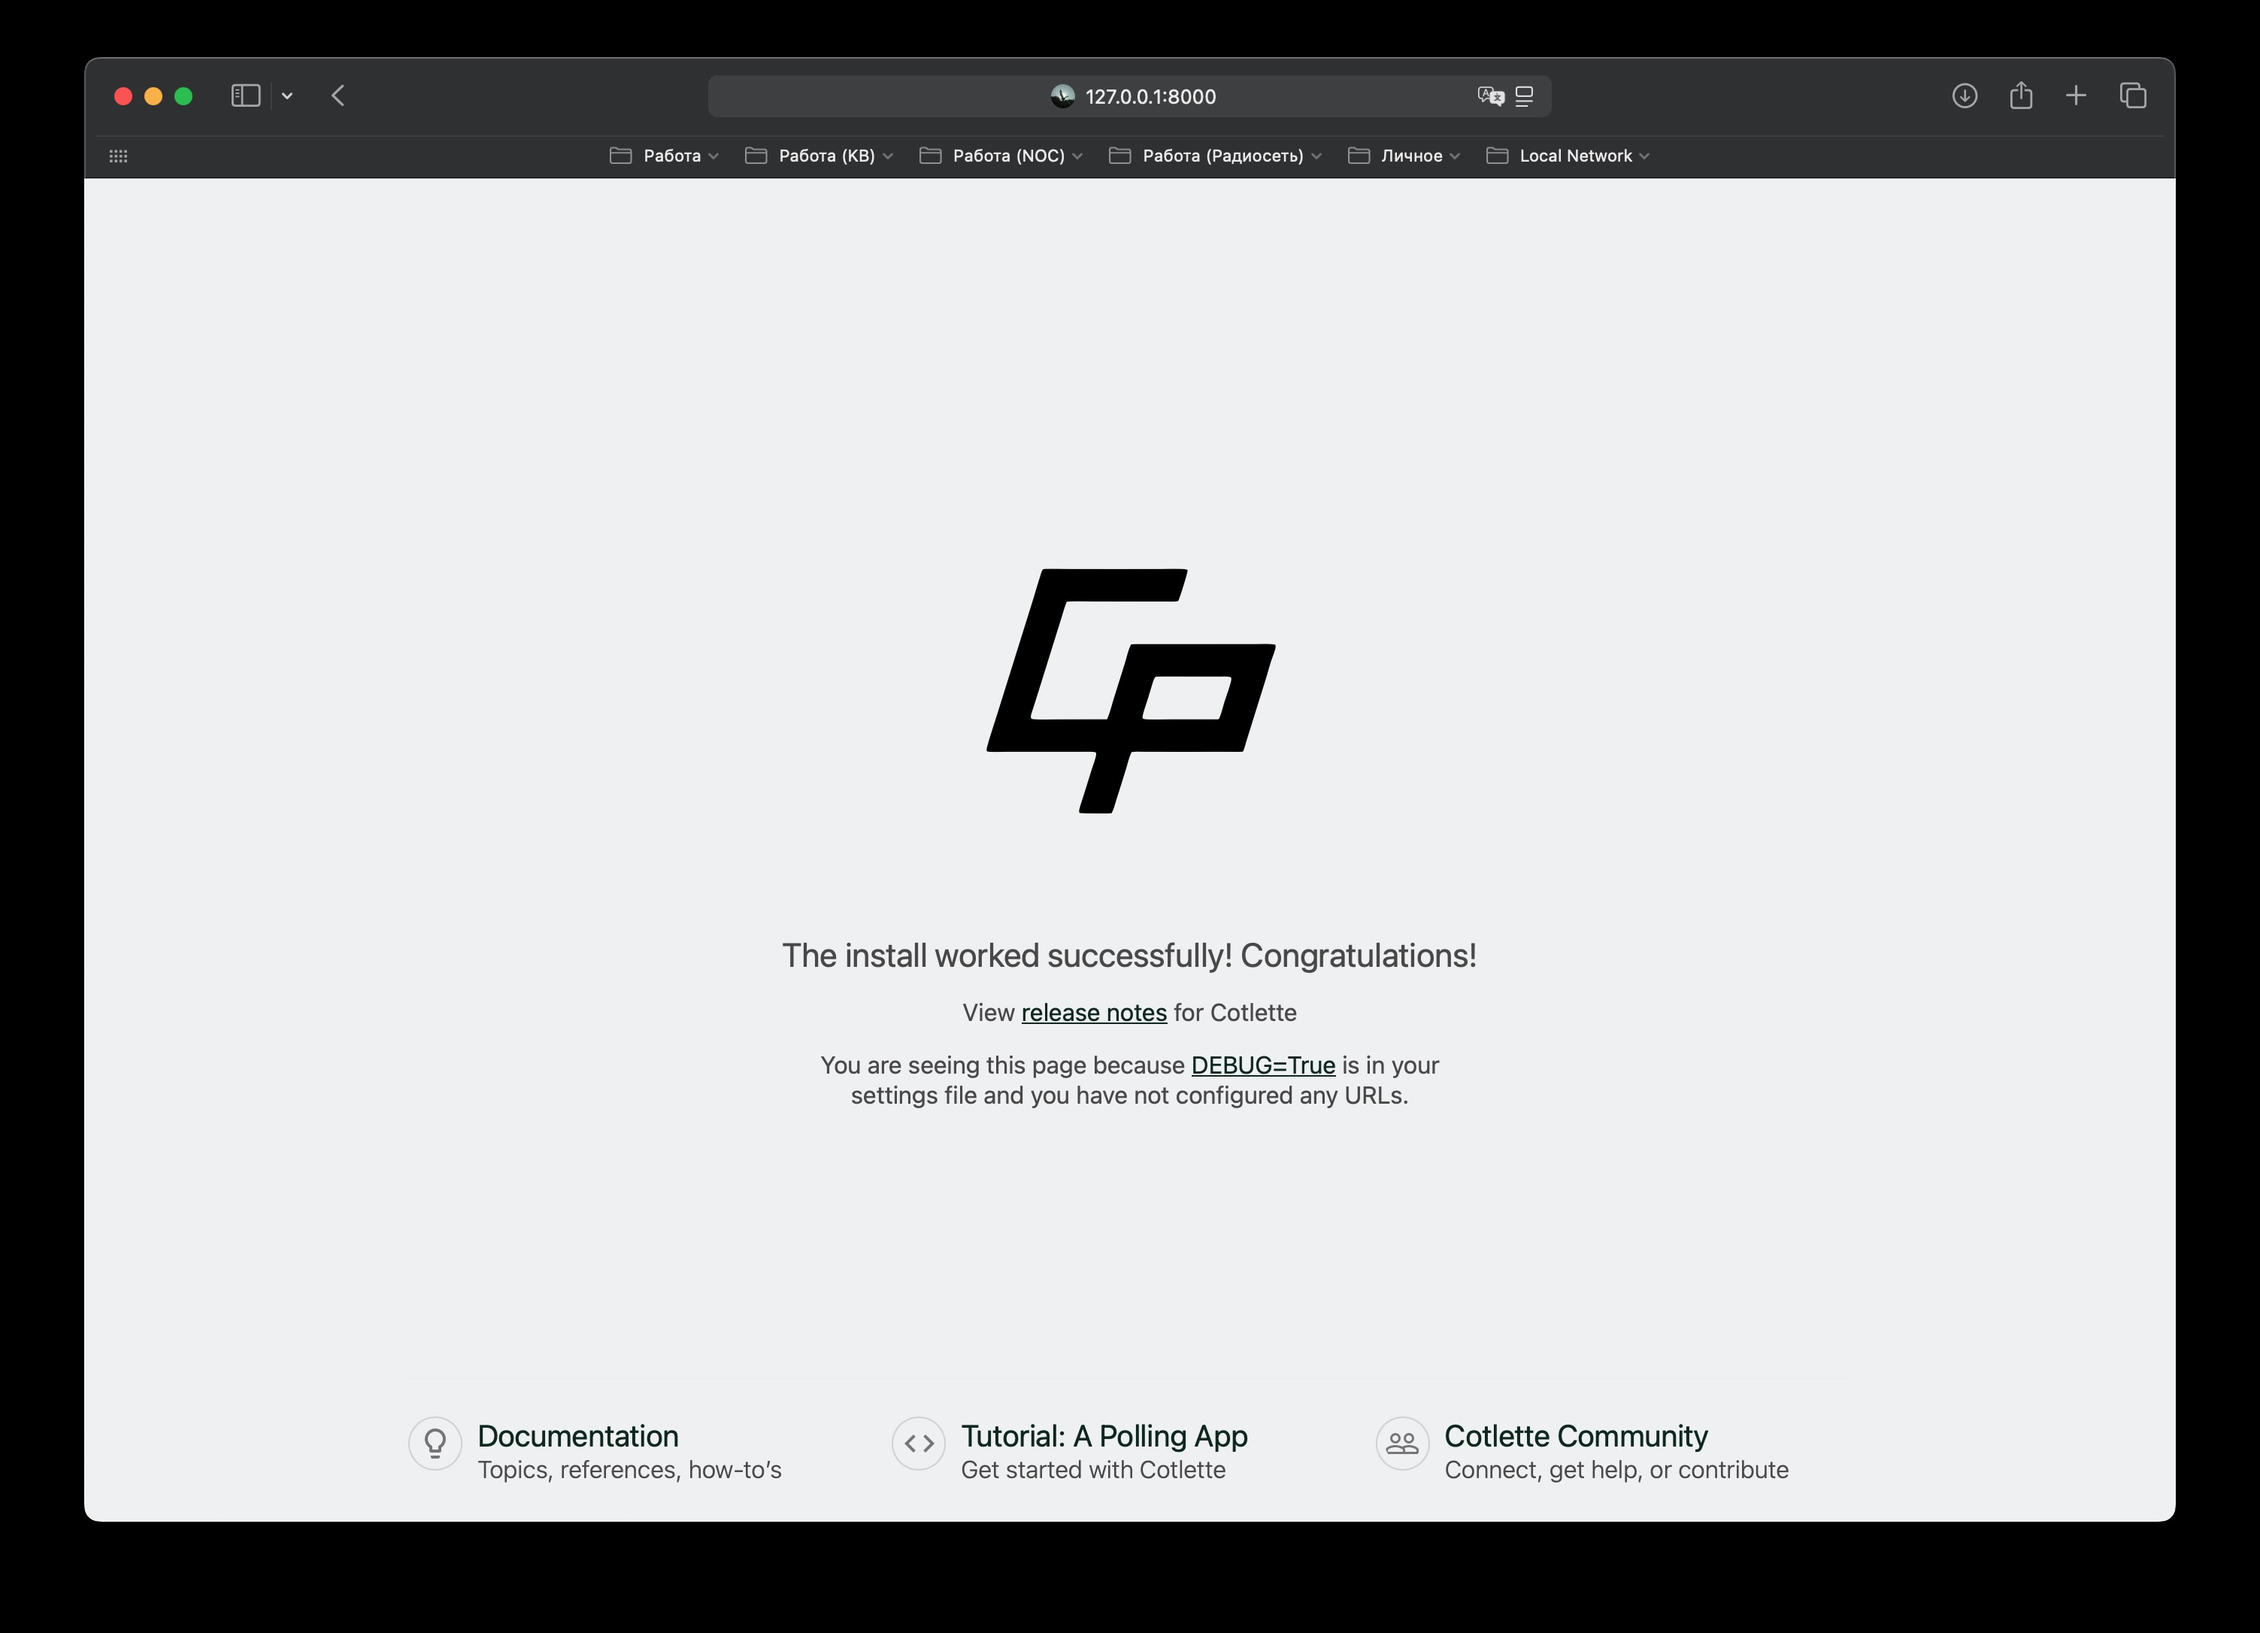
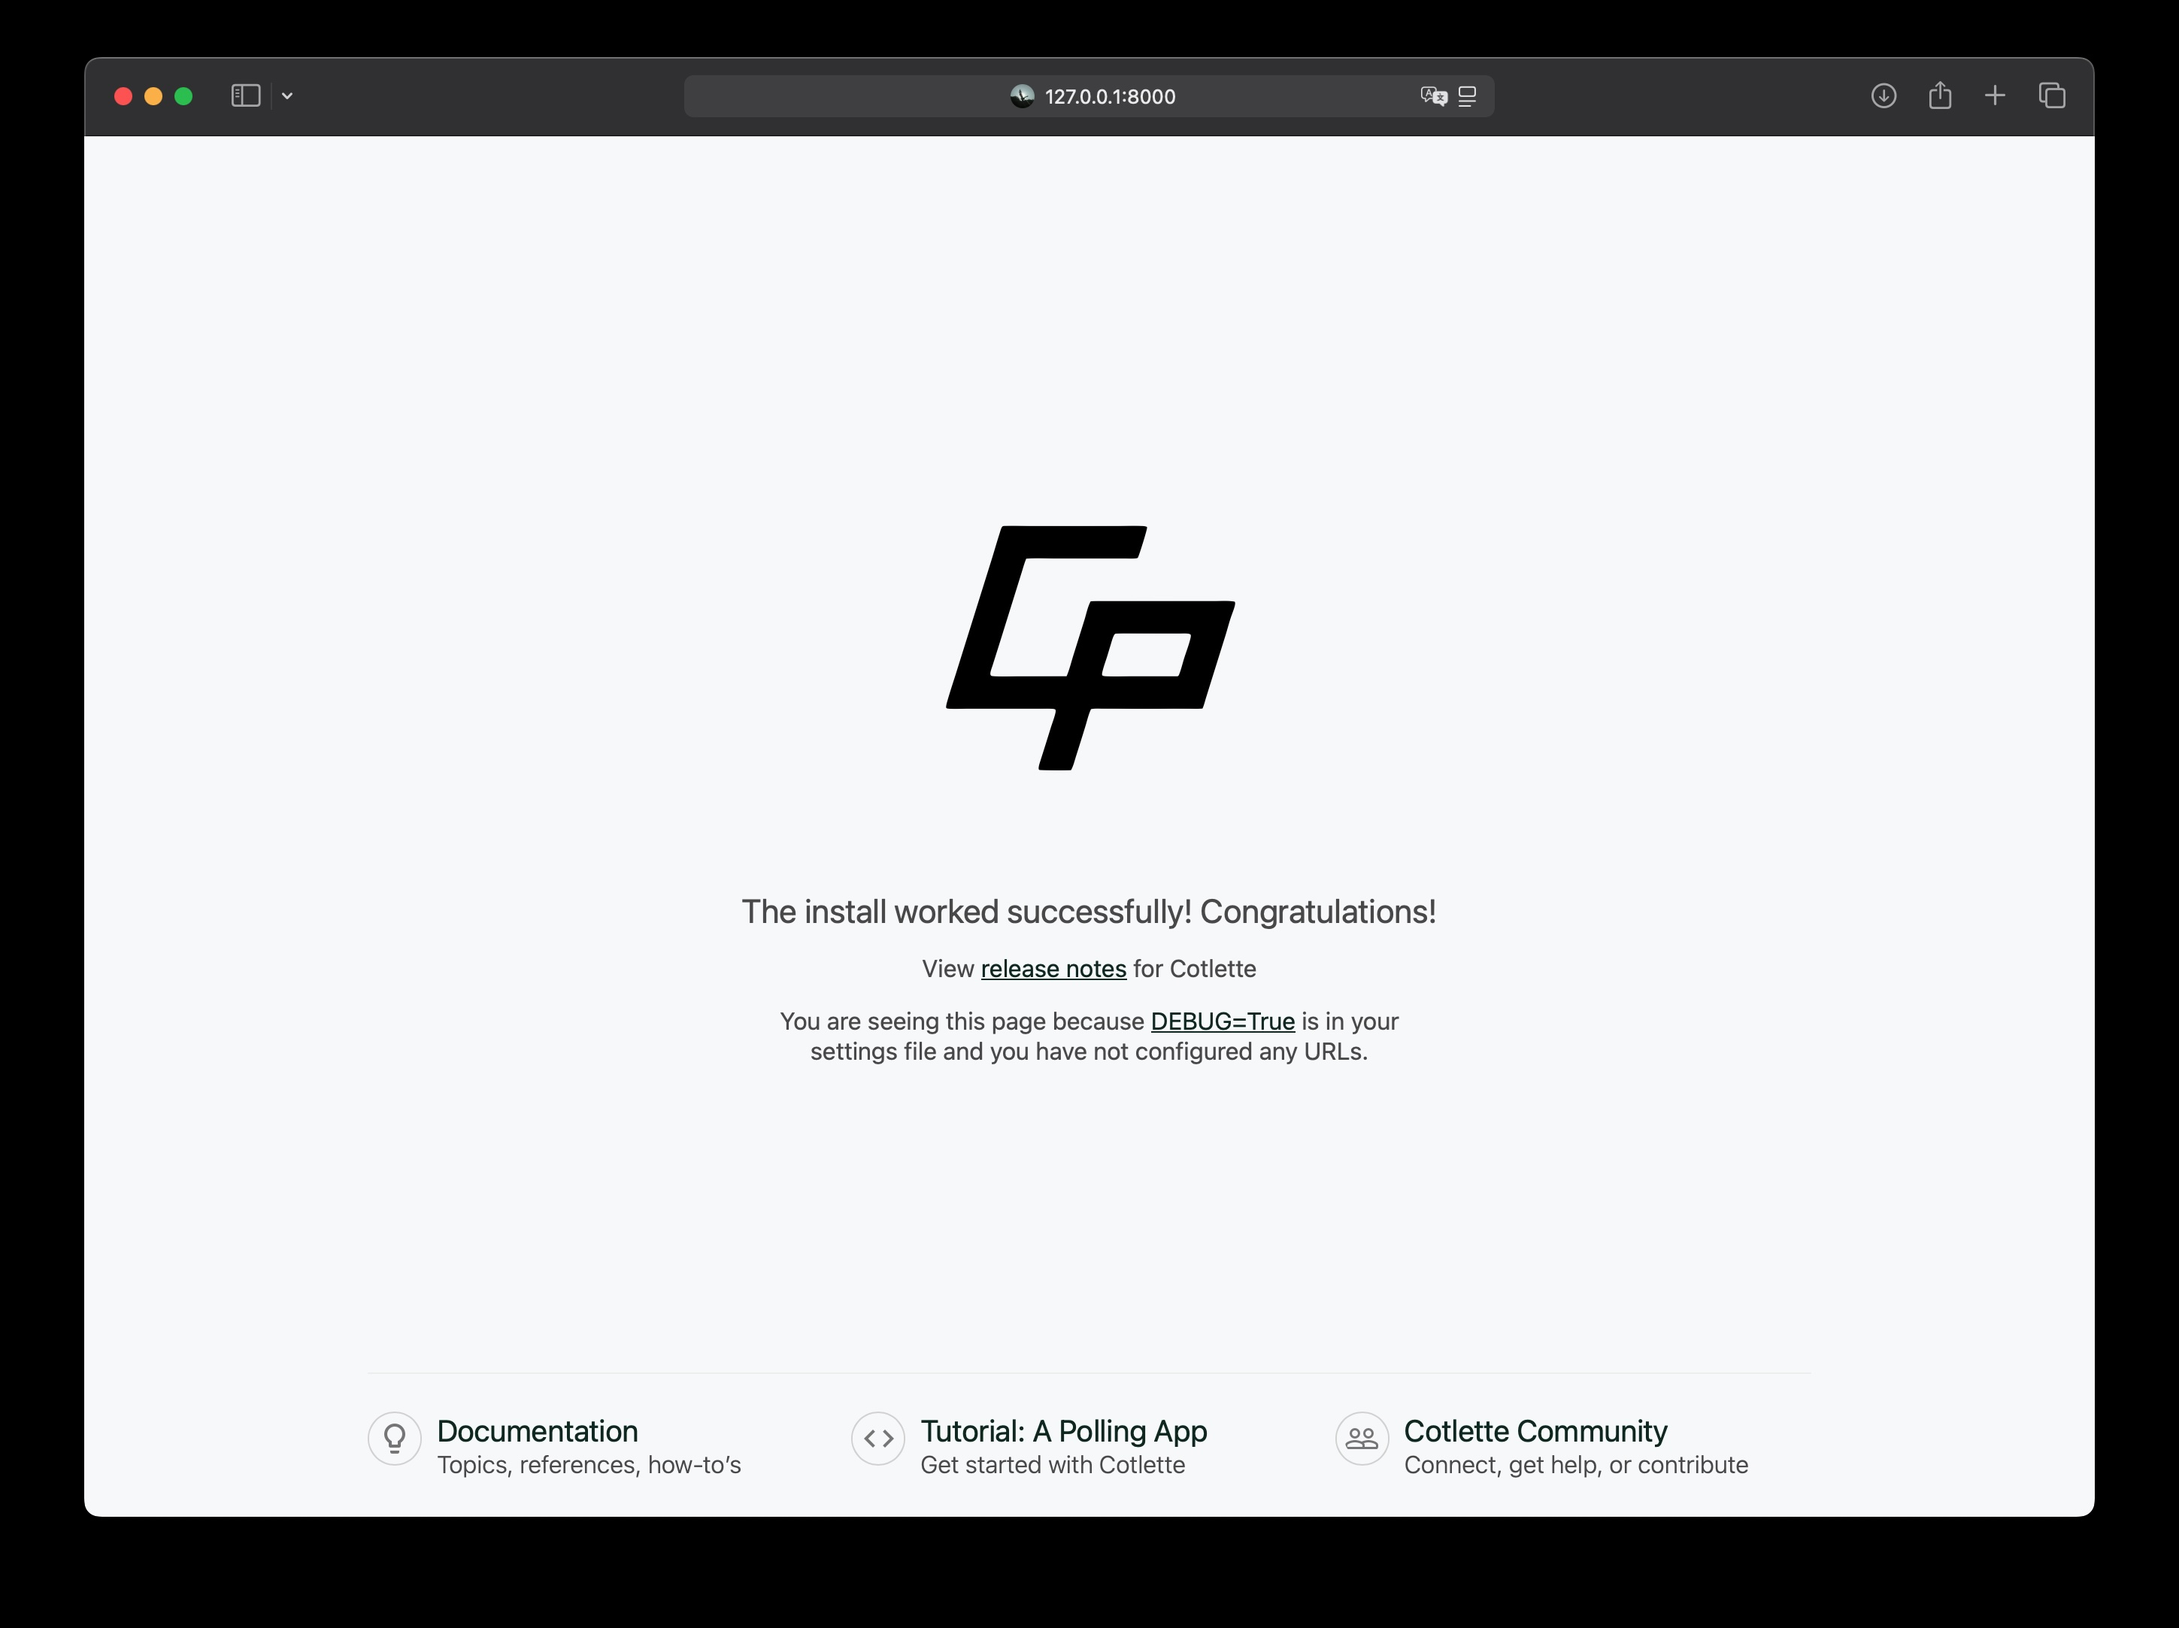
Ап

diff --git a/example/templates/home.html b/example/templates/home.html
@@ -19,7 +19,7 @@
     <style>
       html {
         line-height: 1.15;
-        background-color: color(srgb 0.9453 0.9489 0.953);
+        background-color: color(srgb 0.9726 0.9761 0.9802);
       }
       a {
         color: #092e20;
